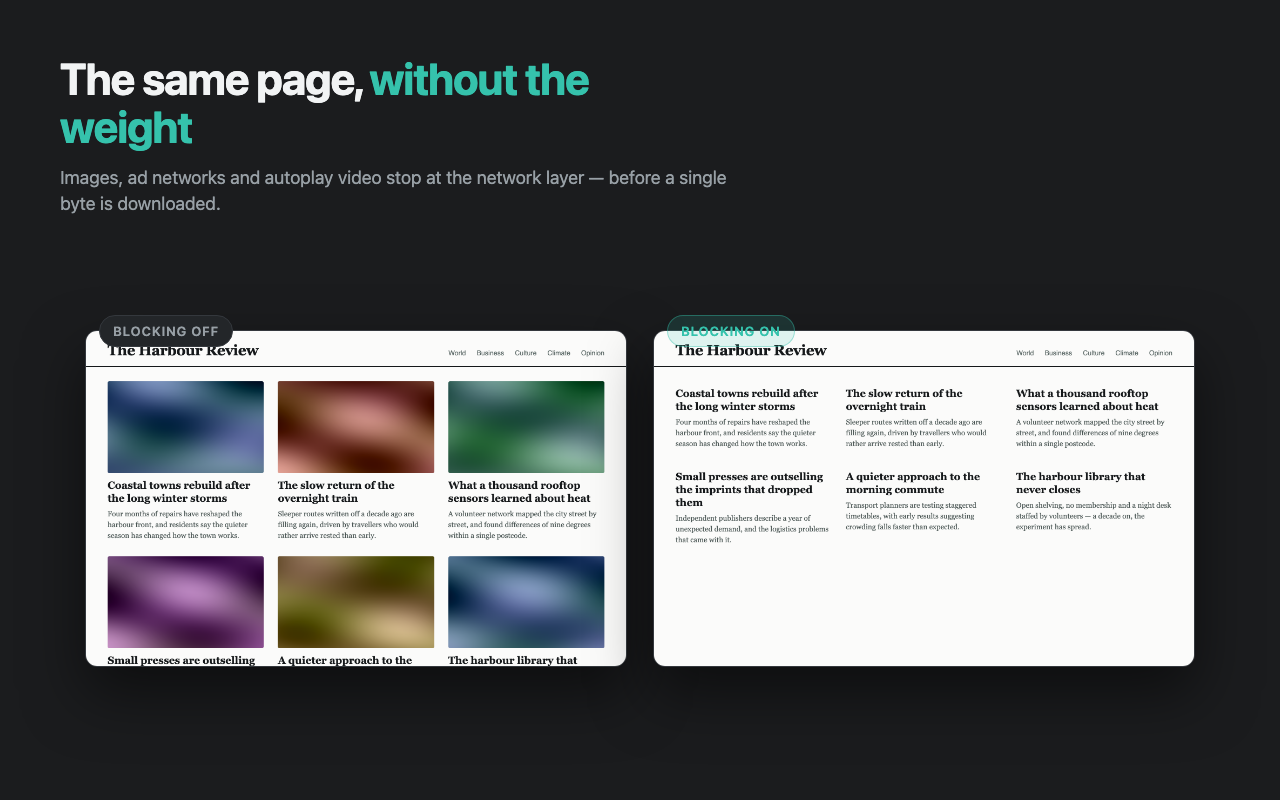
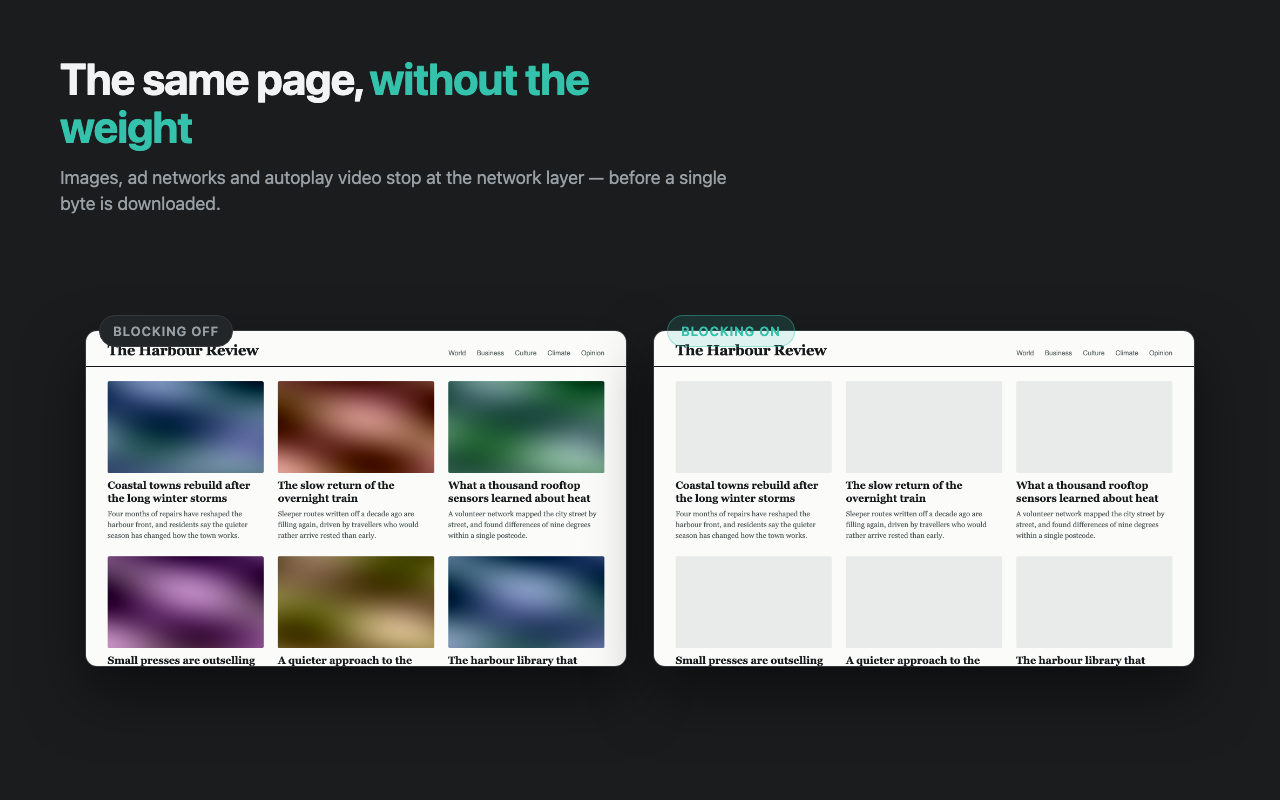
Listing: drop site lists after the 2.5 keyword-stuffing rejection
The Chrome Web Store rejected 2.5 (Yellow Argon, "more than 5 entities in
a section"). The description named eleven call and remote-desktop apps,
three chat apps and five streaming sites. Those are now described as
categories, and the text is cut from 6.3k to 3.8k characters so no keyword
repeats more than five times ("data" had 19 uses).

Screenshots are regenerated from the current popup: the switches now sit
under the site control, and blocked images show the 2.5 placeholder.
PUBLISHING.md gains a keyword-count check, and the notes record the rule.

diff --git a/store-listing/description.md b/store-listing/description.md
@@ -19,15 +19,12 @@ people — pageview→install ran at 60.5% in August, the best it has been —
 while impressions fell from 4,546 in May to 3,522 in August. Discovery is
 the constraint, and the description feeds per-locale Web Store search.
 
-Terms it deliberately covers, because they are what this audience types:
-save mobile data, reduce data usage, data saver, block images, stop
-autoplay video, low bandwidth, limited/capped/prepaid data, metered
-connection, and Chrome's retired Lite Mode, which people search for by name
-looking for a replacement.
-
-The "Common questions" section is there for answer engines rather than
-keyword matching — the headings are phrased the way people actually ask, so
-the answers are quotable as-is.
+Search ranking must never be pursued by repetition or lists, though. After
+the 2.5 rejection (below), the text was cut from ~6,300 to ~3,800 characters
+and the keyword-first FAQ went: it repeated every feature a second time and
+pushed "data" to 19 uses. The description now covers the key phrases
+(save mobile data, block images, autoplay video, Lite Mode, capped or metered)
+**once each**. The appName and appDesc carry most of the search weight anyway.
 
 ## Two claims that must never be overstated
 
@@ -44,3 +41,26 @@ the popup shows each user their own real count instead.
 
 Also do not claim the cookie handler "removes all cookie banners". It answers
 the ones it recognises, hides the ones it cannot, and never accepts.
+
+## Never list sites or apps by name
+
+**2.5 was rejected on 2026-09-25 for keyword stuffing** ("Spam and Placement
+in the Store", reference *Yellow Argon*). The reviewer's reason: "more than 5
+entities in a section". Google's own example of the violation is "a long list
+of the different sites on which the extension works", which describes what
+2.5 added: eleven call and remote-desktop apps on one line, three chat apps on
+the next, and five streaming sites on the line above. 2.3 and 2.4 passed with
+the five streaming names, so five is the limit, not a safe number to aim for.
+
+Google's guidance (Keyword spam FAQ): list **at most five** sites or brands,
+and link to a page or put the list in a screenshot if more are needed. Also
+keep **any single keyword under five uses**, the product's main purpose
+included, and don't add general information that isn't about the extension.
+
+The rule now: **name categories, not brands** ("popular video-call, messaging
+and remote-desktop services"). Keep every list to three or four items, and
+that goes for audience lists too, since "Who it is for" had eight. Before
+resubmitting, count words: "data", "Chrome", "images" and "video" each
+stay at 5 or fewer, and "Data Saver" doesn't need to appear at all, because
+the store shows the name above the text. The full
+per-site allowlists live in the code; the listing doesn't need to repeat them.

diff --git a/store-listing/PUBLISHING.md b/store-listing/PUBLISHING.md
@@ -22,19 +22,30 @@ What it does *not* cover, and you should eyeball once:
 - The screenshots in `store-listing/screenshots/` still show the current UI.
   Regenerate with `python3 scripts/make-screenshots.py` after any visual change.
 - `store-listing/description.txt` matches the features that actually ship.
+- **No keyword stuffing** — 2.5 was rejected for it (see `description.md`).
+  No site, app or brand names in a list; no list longer than four items; no
+  single word used more than five times. Count before pasting:
+
+  ```sh
+  python3 -c "import re,collections;s=open('store-listing/description.txt').read().lower();print([(w,n) for w,n in collections.Counter(re.findall(r'[a-z]{4,}',s)).most_common(15) if n>5])"
+  ```
+
+  Ordinary verbs like "block" and "site" may go over five; "data", "chrome",
+  "images", "video" and the product name must not.
 
 ---
 
 ## 1. Upload the package first
 
 Developer Dashboard → the item → **Package** → *Upload new package* →
-`dist/data-saver-extension-v2.3.zip`
+`dist/data-saver-extension-v<version>.zip` (the version in `manifest.json`)
 
 Upload before touching any listing text. If the package is rejected for a
 manifest problem you find out immediately, rather than after retyping copy.
 
 The version in the manifest must be higher than the live one. The store
-refuses a re-upload of the same version number, and there is no way to
+refuses a re-upload of a *published* version number (a rejected draft was
+never published, so its package can be resubmitted as-is), and there is no way to
 overwrite a version once published.
 
 ---
